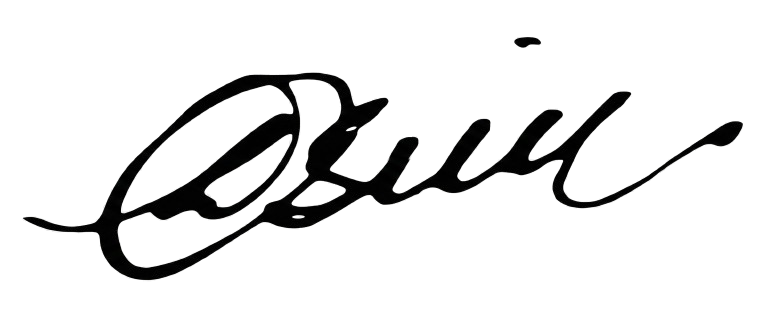
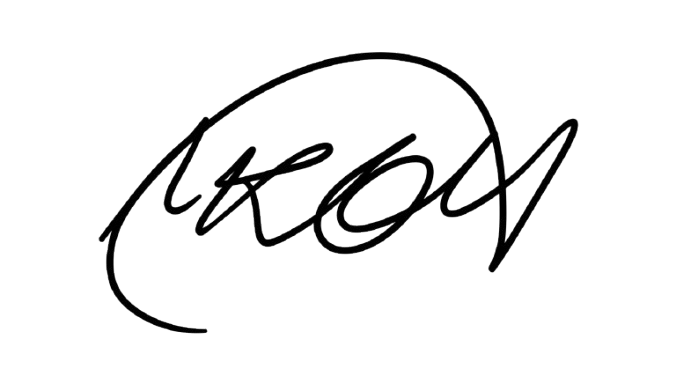
fix: update FGV certificate assets, correct validation url domain, and add root validation search page

Changed region(s): [[0.0311, 0.1132, 0.963, 0.9057]]

diff --git a/client/src/pages/BrasilOpenBadgeValidation.tsx b/client/src/pages/BrasilOpenBadgeValidation.tsx
@@ -1,13 +1,17 @@
 import { useState, useEffect, useRef } from "react";
-import { useParams } from "wouter";
+import { useParams, useLocation } from "wouter";
 import { QRCodeSVG } from "qrcode.react";
 import CertificadoFGVDocument from "@/components/CertificadoFGVDocument";
 import { exportElementToPDF, generatePDFFilename } from "@/lib/pdfExport";
 import { toast } from "sonner";
 import { Loader2, Award, Clock, ShieldCheck, CheckCircle2, Languages, Globe, Download } from "lucide-react";
 
+const CURSO_DEFAULT = "Liderança e Gestão de Equipes";
+
 export default function BrasilOpenBadgeValidation() {
   const params = useParams<{ id: string }>();
+  const [, setLocation] = useLocation();
+  const [searchCode, setSearchCode] = useState("");
   const [loading, setLoading] = useState(true);
   const [validDoc, setValidDoc] = useState<any>(null);
   const [errorMessage, setErrorMessage] = useState<string | null>(null);
@@ -16,7 +20,10 @@ export default function BrasilOpenBadgeValidation() {
   const [lang, setLang] = useState<"pt" | "en" | "es">("pt");
 
   useEffect(() => {
-    if (!params.id) return;
+    if (!params.id) {
+      setLoading(false);
+      return;
+    }
     setLoading(true);
     setErrorMessage(null);
     
@@ -60,6 +67,21 @@ export default function BrasilOpenBadgeValidation() {
     }
   };
 
+  const handleSearchSubmit = (e: React.FormEvent) => {
+    e.preventDefault();
+    if (!searchCode.trim()) return;
+    
+    let token = searchCode.trim();
+    if (token.includes("/")) {
+      const parts = token.split("/");
+      token = parts.filter(Boolean).pop() || "";
+    }
+    
+    if (token) {
+      setLocation(`/pages/badge/${token.toLowerCase()}`);
+    }
+  };
+
   if (loading) {
     return (
       <div className="min-h-screen bg-gray-50 flex flex-col items-center justify-center p-4">
@@ -68,6 +90,72 @@ export default function BrasilOpenBadgeValidation() {
       </div>
     );
   }
+
+  // Se não foi fornecido ID (Home do validador)
+  if (!params.id) {
+    return (
+      <div className="min-h-screen bg-[#f0f2f5] text-gray-800 font-sans antialiased flex flex-col">
+        {/* Header */}
+        <header className="bg-white border-b border-gray-200 shadow-sm h-20 flex items-center justify-between px-6 md:px-12 w-full">
+          <div className="flex items-center">
+            <img
+              src="https://img.brasilopenbadge.com.br/logo-novo-azul-horizontal.png"
+              alt="Brasil Open Badge"
+              className="h-10 md:h-12 object-contain"
+              onError={(e) => {
+                e.currentTarget.src = "/assets/logo-text.webp";
+              }}
+            />
+          </div>
+          <div className="flex items-center gap-4">
+            <div className="flex items-center gap-2 text-xs font-bold text-gray-500 bg-gray-100 px-3 py-1.5 rounded-full">
+              <ShieldCheck className="w-4 h-4 text-emerald-500" />
+              SISTEMA DE VALIDAÇÃO
+            </div>
+          </div>
+        </header>
+
+        {/* Central Card */}
+        <div className="flex-1 flex items-center justify-center p-4 md:p-8">
+          <div className="bg-white p-8 md:p-12 rounded-3xl shadow-xl max-w-xl w-full border-t-8 border-[#005CA9] text-center">
+            <Award className="w-16 h-16 text-[#005CA9] mx-auto mb-6" />
+            <h2 className="text-3xl font-black text-gray-900 mb-2 uppercase tracking-tight">Validar Conquista</h2>
+            <p className="text-gray-500 text-sm mb-8 leading-relaxed">
+              Verifique a autenticidade e validade de badges e certificados emitidos. 
+              Insira o código de autenticidade de 9 dígitos ou a chave de validação de 32 caracteres abaixo.
+            </p>
+
+            <form onSubmit={handleSearchSubmit} className="space-y-4">
+              <div className="relative">
+                <input
+                  type="text"
+                  value={searchCode}
+                  onChange={(e) => setSearchCode(e.target.value)}
+                  placeholder="Código de Autenticidade ou link de validação"
+                  className="w-full px-5 py-4 bg-gray-50 border-2 border-gray-200 rounded-2xl text-center font-semibold text-gray-800 placeholder-gray-400 focus:border-[#005CA9] focus:bg-white outline-none transition-all"
+                  required
+                />
+              </div>
+              
+              <button
+                type="submit"
+                className="w-full py-4 bg-[#005CA9] hover:bg-blue-800 text-white font-bold rounded-2xl uppercase tracking-widest text-sm transition-colors shadow-lg shadow-blue-900/10"
+              >
+                Validar Badge / Certificado
+              </button>
+            </form>
+          </div>
+        </div>
+
+        {/* Footer */}
+        <footer className="py-6 text-center text-xs text-gray-400 bg-white border-t border-gray-200">
+          © {new Date().getFullYear()} Brasil Open Badge. Todos os direitos reservados.
+        </footer>
+      </div>
+    );
+  }
+
+
 
   if (errorMessage || !validDoc) {
     return (

diff --git a/client/src/components/CertificadoFGVDocument.tsx b/client/src/components/CertificadoFGVDocument.tsx
@@ -43,11 +43,7 @@ const CertificadoFGVDocument = forwardRef<HTMLDivElement, CertificadoFGVDocument
     
     // Construct validation URL based on the validation token
     const validationToken = (data.codigo_validacao || data.id || codigoAutenticidade).toLowerCase();
-    const validationUrl = data.url_validacao || (
-      typeof window !== "undefined"
-        ? `${window.location.origin}/pages/badge/${validationToken}`
-        : `https://brasilopenbadge.dev/pages/badge/${validationToken}`
-    );
+    const validationUrl = data.url_validacao || `https://brasilopenbadge.pages.dev/pages/badge/${validationToken}`;
 
     return (
       <div